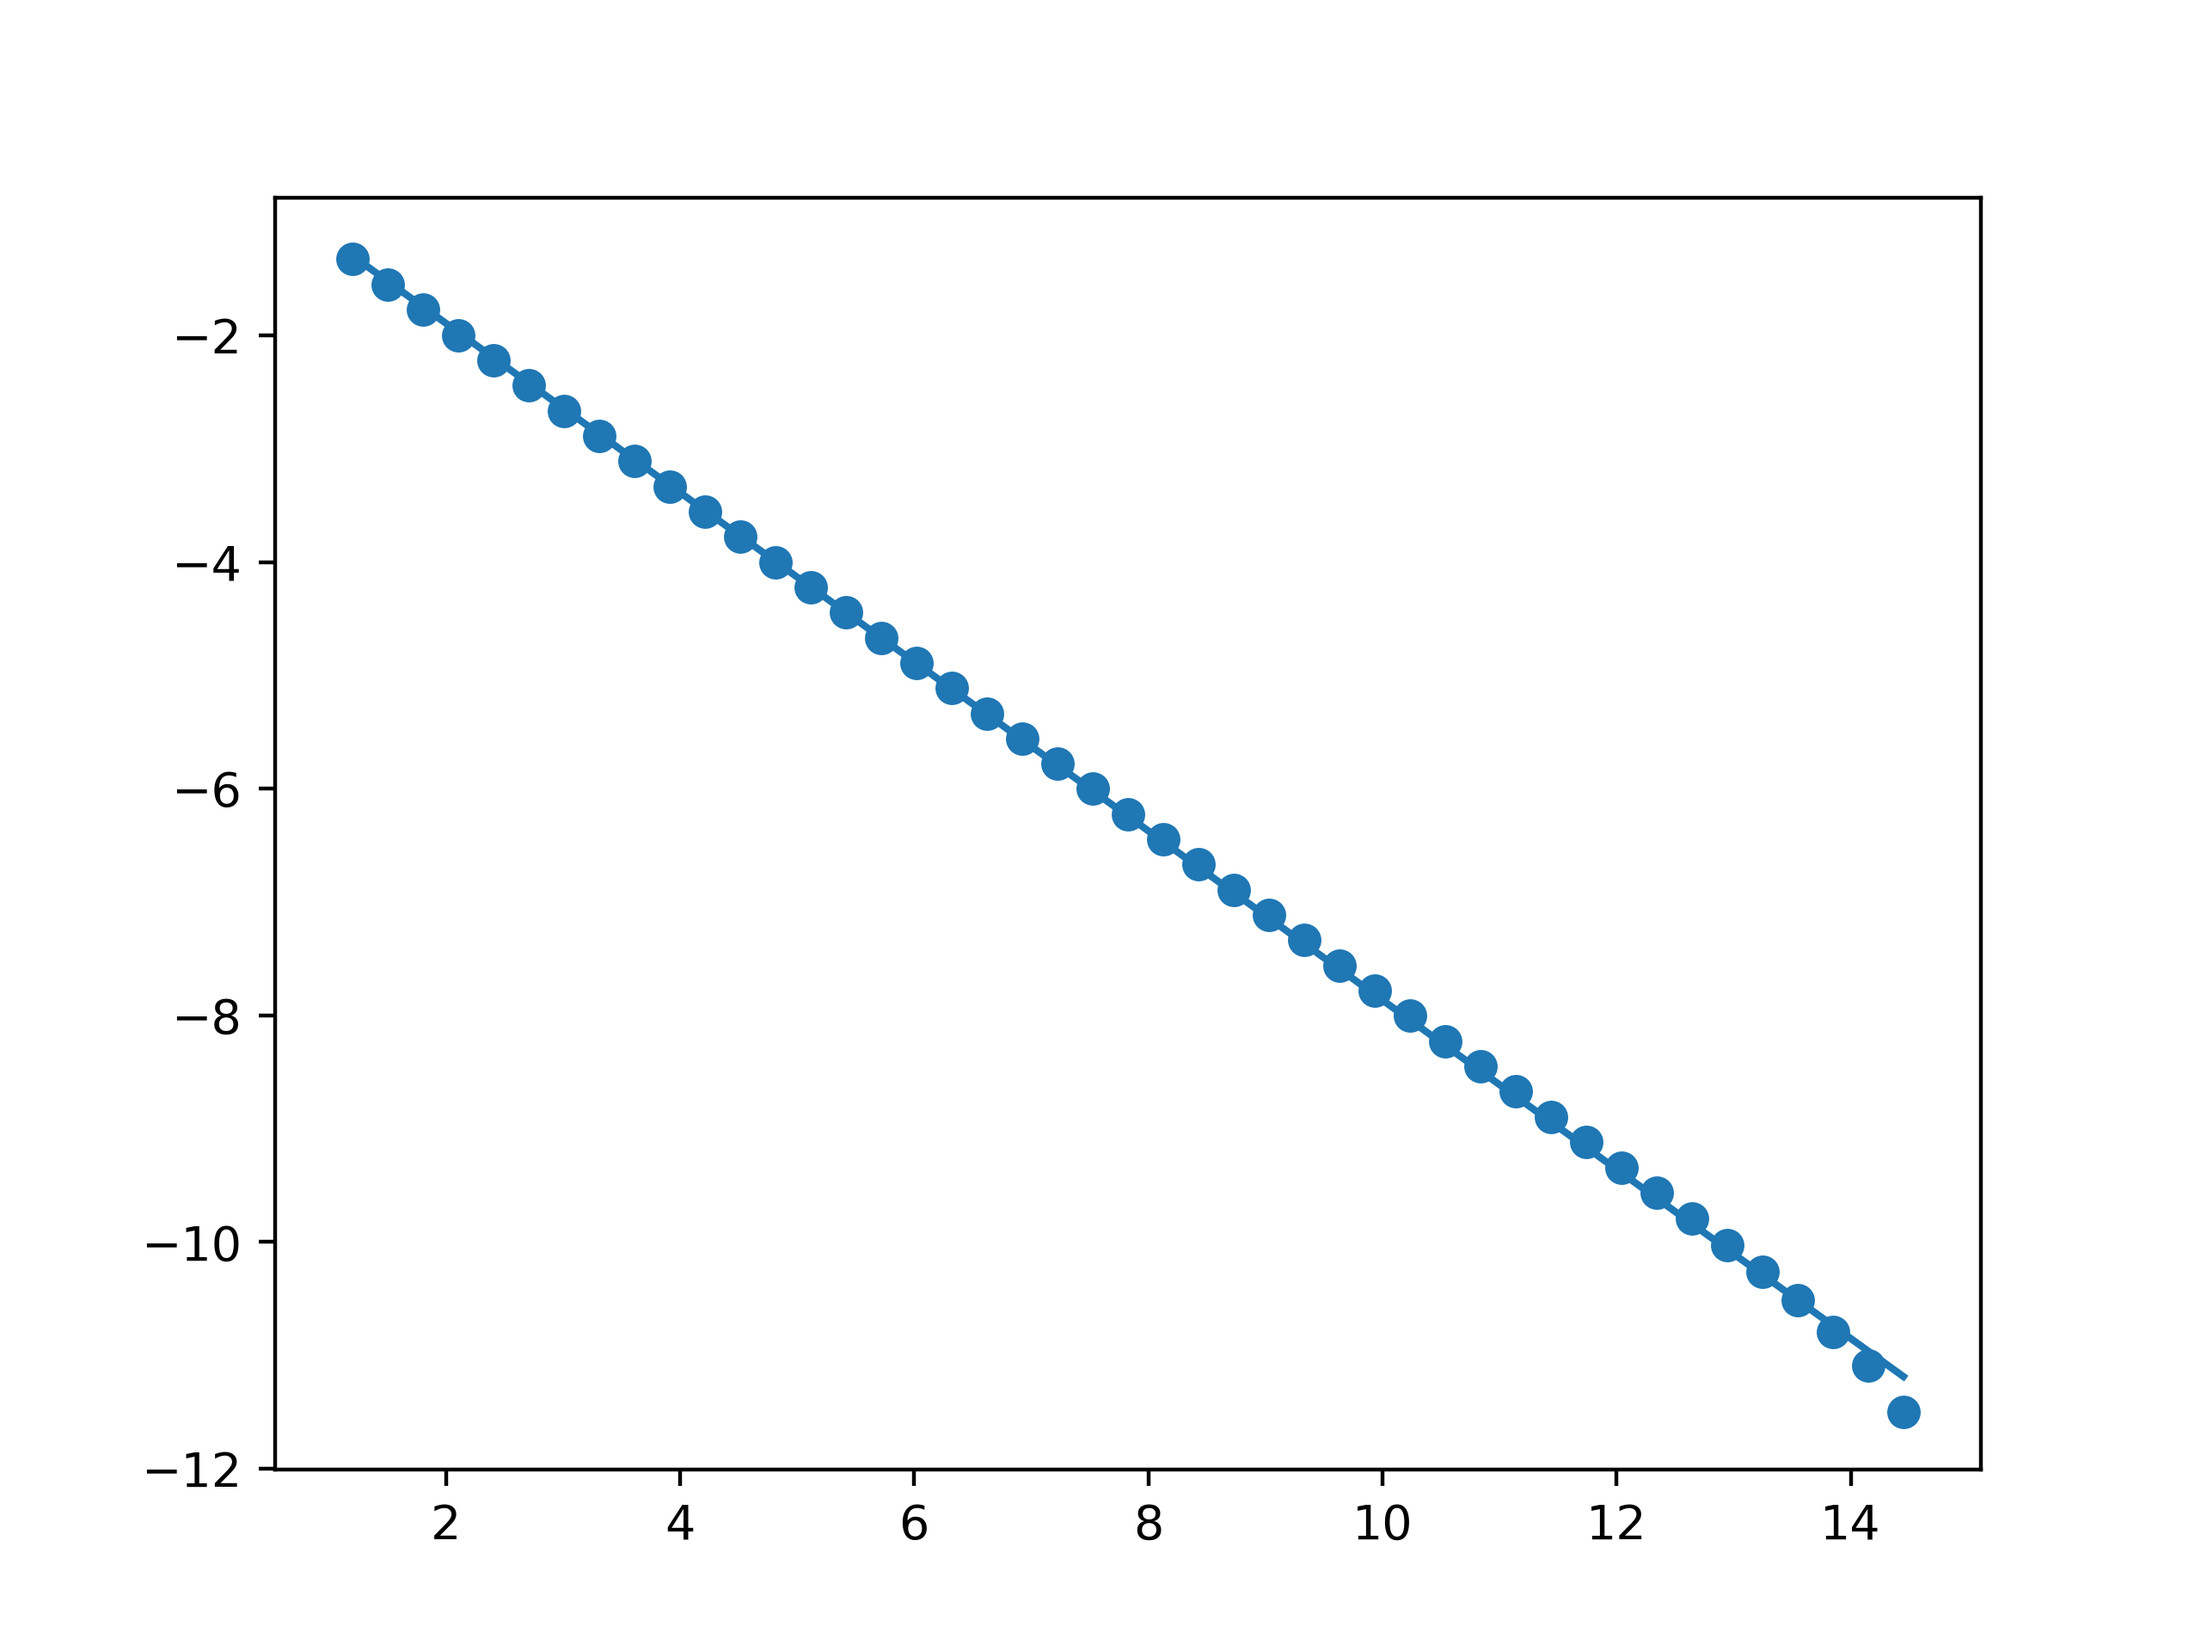
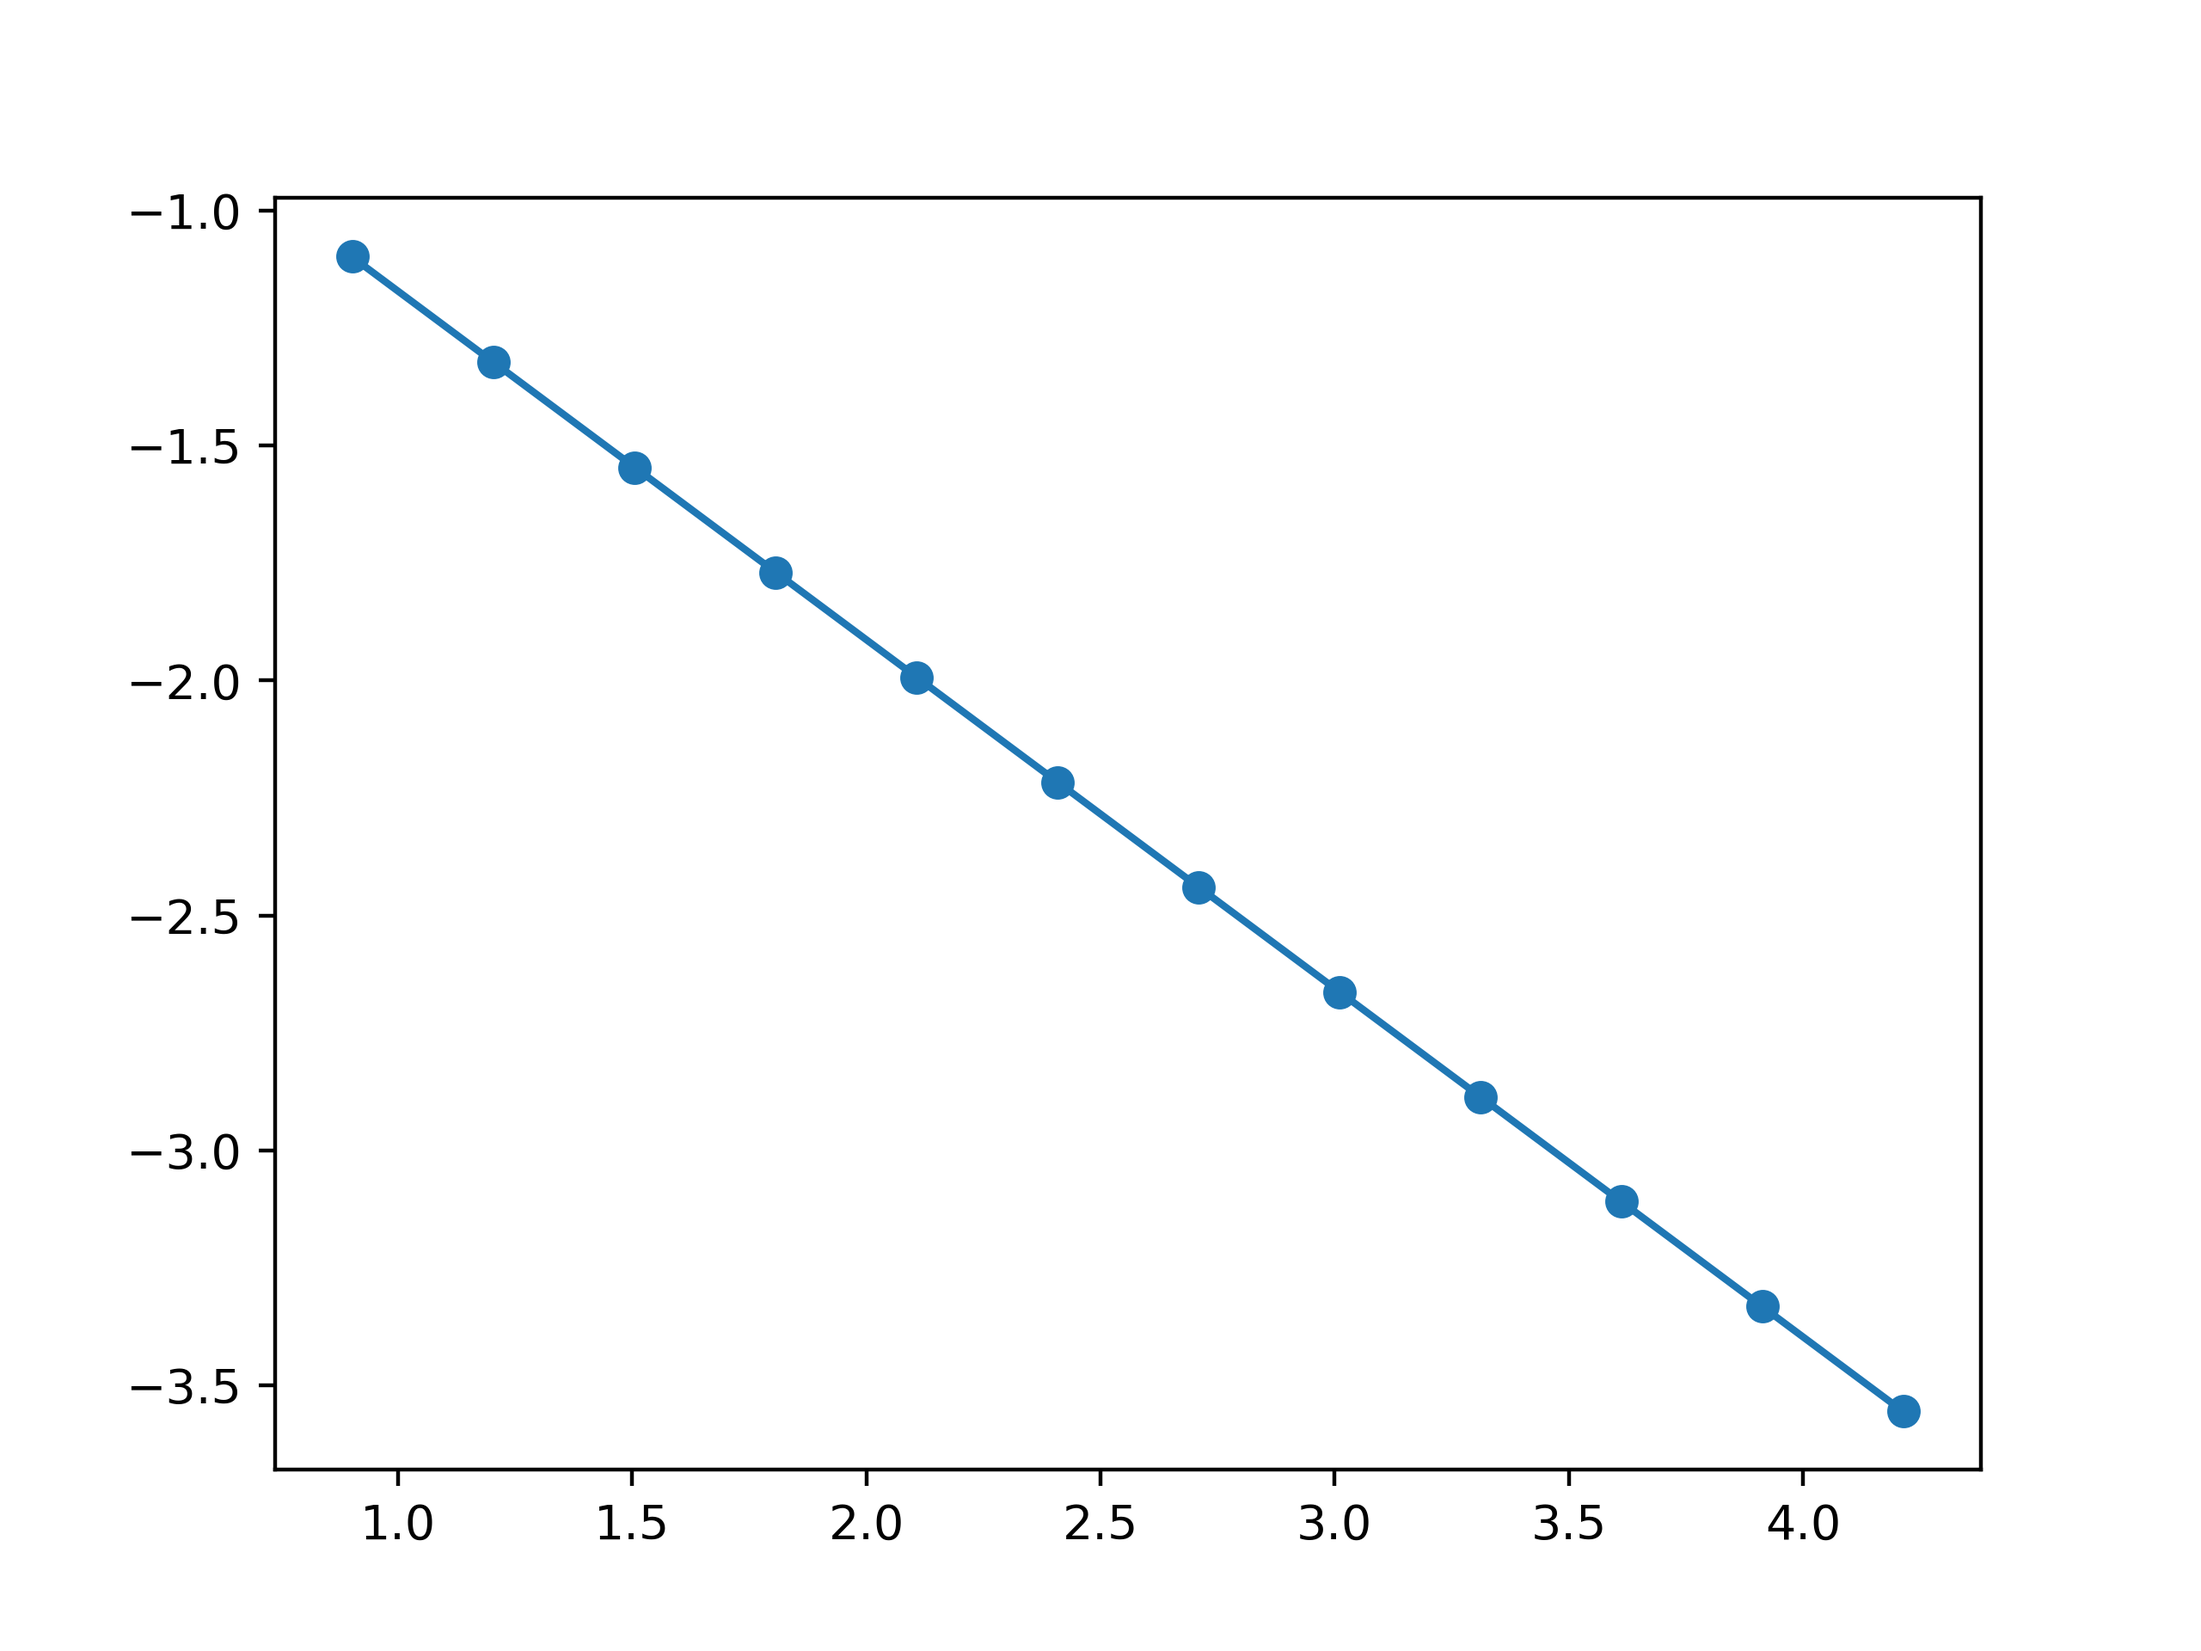
- Seperate classical and quantum scaling loops combined into one general function parameter_scaling()
- improved formatting all round

- New variable M2 sets an arbitrarily large generation size to recover a more accurate x_str from loop

- Recovered critical exponent nu is accurate to 3.dp and within the accepted range of error of values found in Hu et. Al

diff --git a/renorm.py b/renorm.py
@@ -2,6 +2,15 @@ import numpy as np
 import matplotlib.pyplot as plt
 import scipy.optimize as op
 
+H_OUT = []
+H_OUT2 = []
+P_STR = 0.5 * (np.sqrt(5) - 1)
+
+M0 = 3
+M1 = 16
+M2 = 30
+P_LO = 0.4
+P_HI = 0.8
 
 def R_P(p):
     return 1 - (1 - p**2)**2
@@ -15,8 +24,8 @@ def g(c):
     return (1 + np.sqrt(np.clip(1 - c**2, 0, None))) / 2
 
 def parallel_c(c):
-    gp = max(0.5, g(c) ** 2)
-    return np.sqrt(max(0.0, 1 - (2*gp - 1)**2))
+    g_p = max(0.5, g(c) ** 2)
+    return np.sqrt(max(0.0, 1 - (2*g_p - 1)**2))
 
 def R_C(c):
     branch = c**2          # series rule: two links in a row
@@ -28,46 +37,51 @@ def C_SC(c, n):
     return c
 
 
-theta = np.linspace(0, np.pi/4, 10000)
-p = 2 * np.sin(theta)**2
+def parameter_scaling(prm_th, x_sc, x_str, display):
+    """
+    Order parameter scaling for X-type percolation; returns nu as float.
 
-L = []
-E = []
+    Args:
+        prm_th (float) - parameter value
+        x_sc (function) - 
+        x_inf (float) - critical threshold for infinite clusters
+    """
+    prm_n = []
+    tht_q = []
 
-M0 = 4
-M = 50
-P_TH = [0.4,0.8]
-
-H_OUT = []
-
-for OP in P_TH:
-    P_STR = 0.5 * (np.sqrt(5) - 1)
-
-    for n in range(M0,M):
+    for _n in range(M0,M2):
         ## determine threshold probability for given generation
-        p_th_L = op.brentq(lambda p: C_SC(p, n) - OP, 1e-8, 1 - 1e-8)
+        x_th_l = op.brentq(lambda x: x_sc(x, _n) - prm_th, 1e-8, 1 - 1e-8)
 
-        if n >= M-1:
+        if _n >= M1-1:
             continue
-        print(p_th_L)
 
-        E.append(p_th_L)
-        L.append(2**n)
+        prm_n.append(x_th_l)
+        tht_q.append(2**_n)
 
     plt.savefig('P_inf.png',dpi=400)
     plt.close()
 
-    logplot = np.log10(np.abs(E - np.asarray(p_th_L)))
+    diff_tm = np.asarray(x_th_l) if x_str is None else np.asarray(x_str)
+    log_plot = np.log10(np.abs(prm_n - diff_tm))
+    grad_fit = np.polyfit(np.log10(tht_q), log_plot, 1)
 
-    plt.scatter(np.log10(L),logplot)
+    plt.scatter(np.log10(tht_q),log_plot)
+    plt.plot(np.log10(tht_q), grad_fit[0]*np.log10(tht_q) + grad_fit[1])
 
-    H = np.polyfit(np.log10(L), logplot, 1)
+    if not display:
+        plt.close()
 
-    plt.plot(np.log10(L), H[0]*np.log10(L) + H[1])
-
-    H_OUT.append(-1/H[0])
-
-print(f'{H_OUT}')
+    ## nu recovered from inverse gradient
+    return -1/grad_fit[0]
 
 
+H_OUT.append(parameter_scaling(P_LO, P_SC, P_STR, 1))
+H_OUT.append(parameter_scaling(P_HI, P_SC, P_STR, 1))
 plt.show()
+print(f'{0.5*(H_OUT[0] + H_OUT[1])} pm {0.5*(H_OUT[0] - H_OUT[1])}')
+
+H_OUT2.append(parameter_scaling(P_LO, C_SC, None, 1))
+H_OUT2.append(parameter_scaling(P_HI, C_SC, None, 1))
+plt.show()
+print(f'{0.5*(H_OUT2[0] + H_OUT2[1])} pm {0.5*(H_OUT[0] - H_OUT[1])}')
